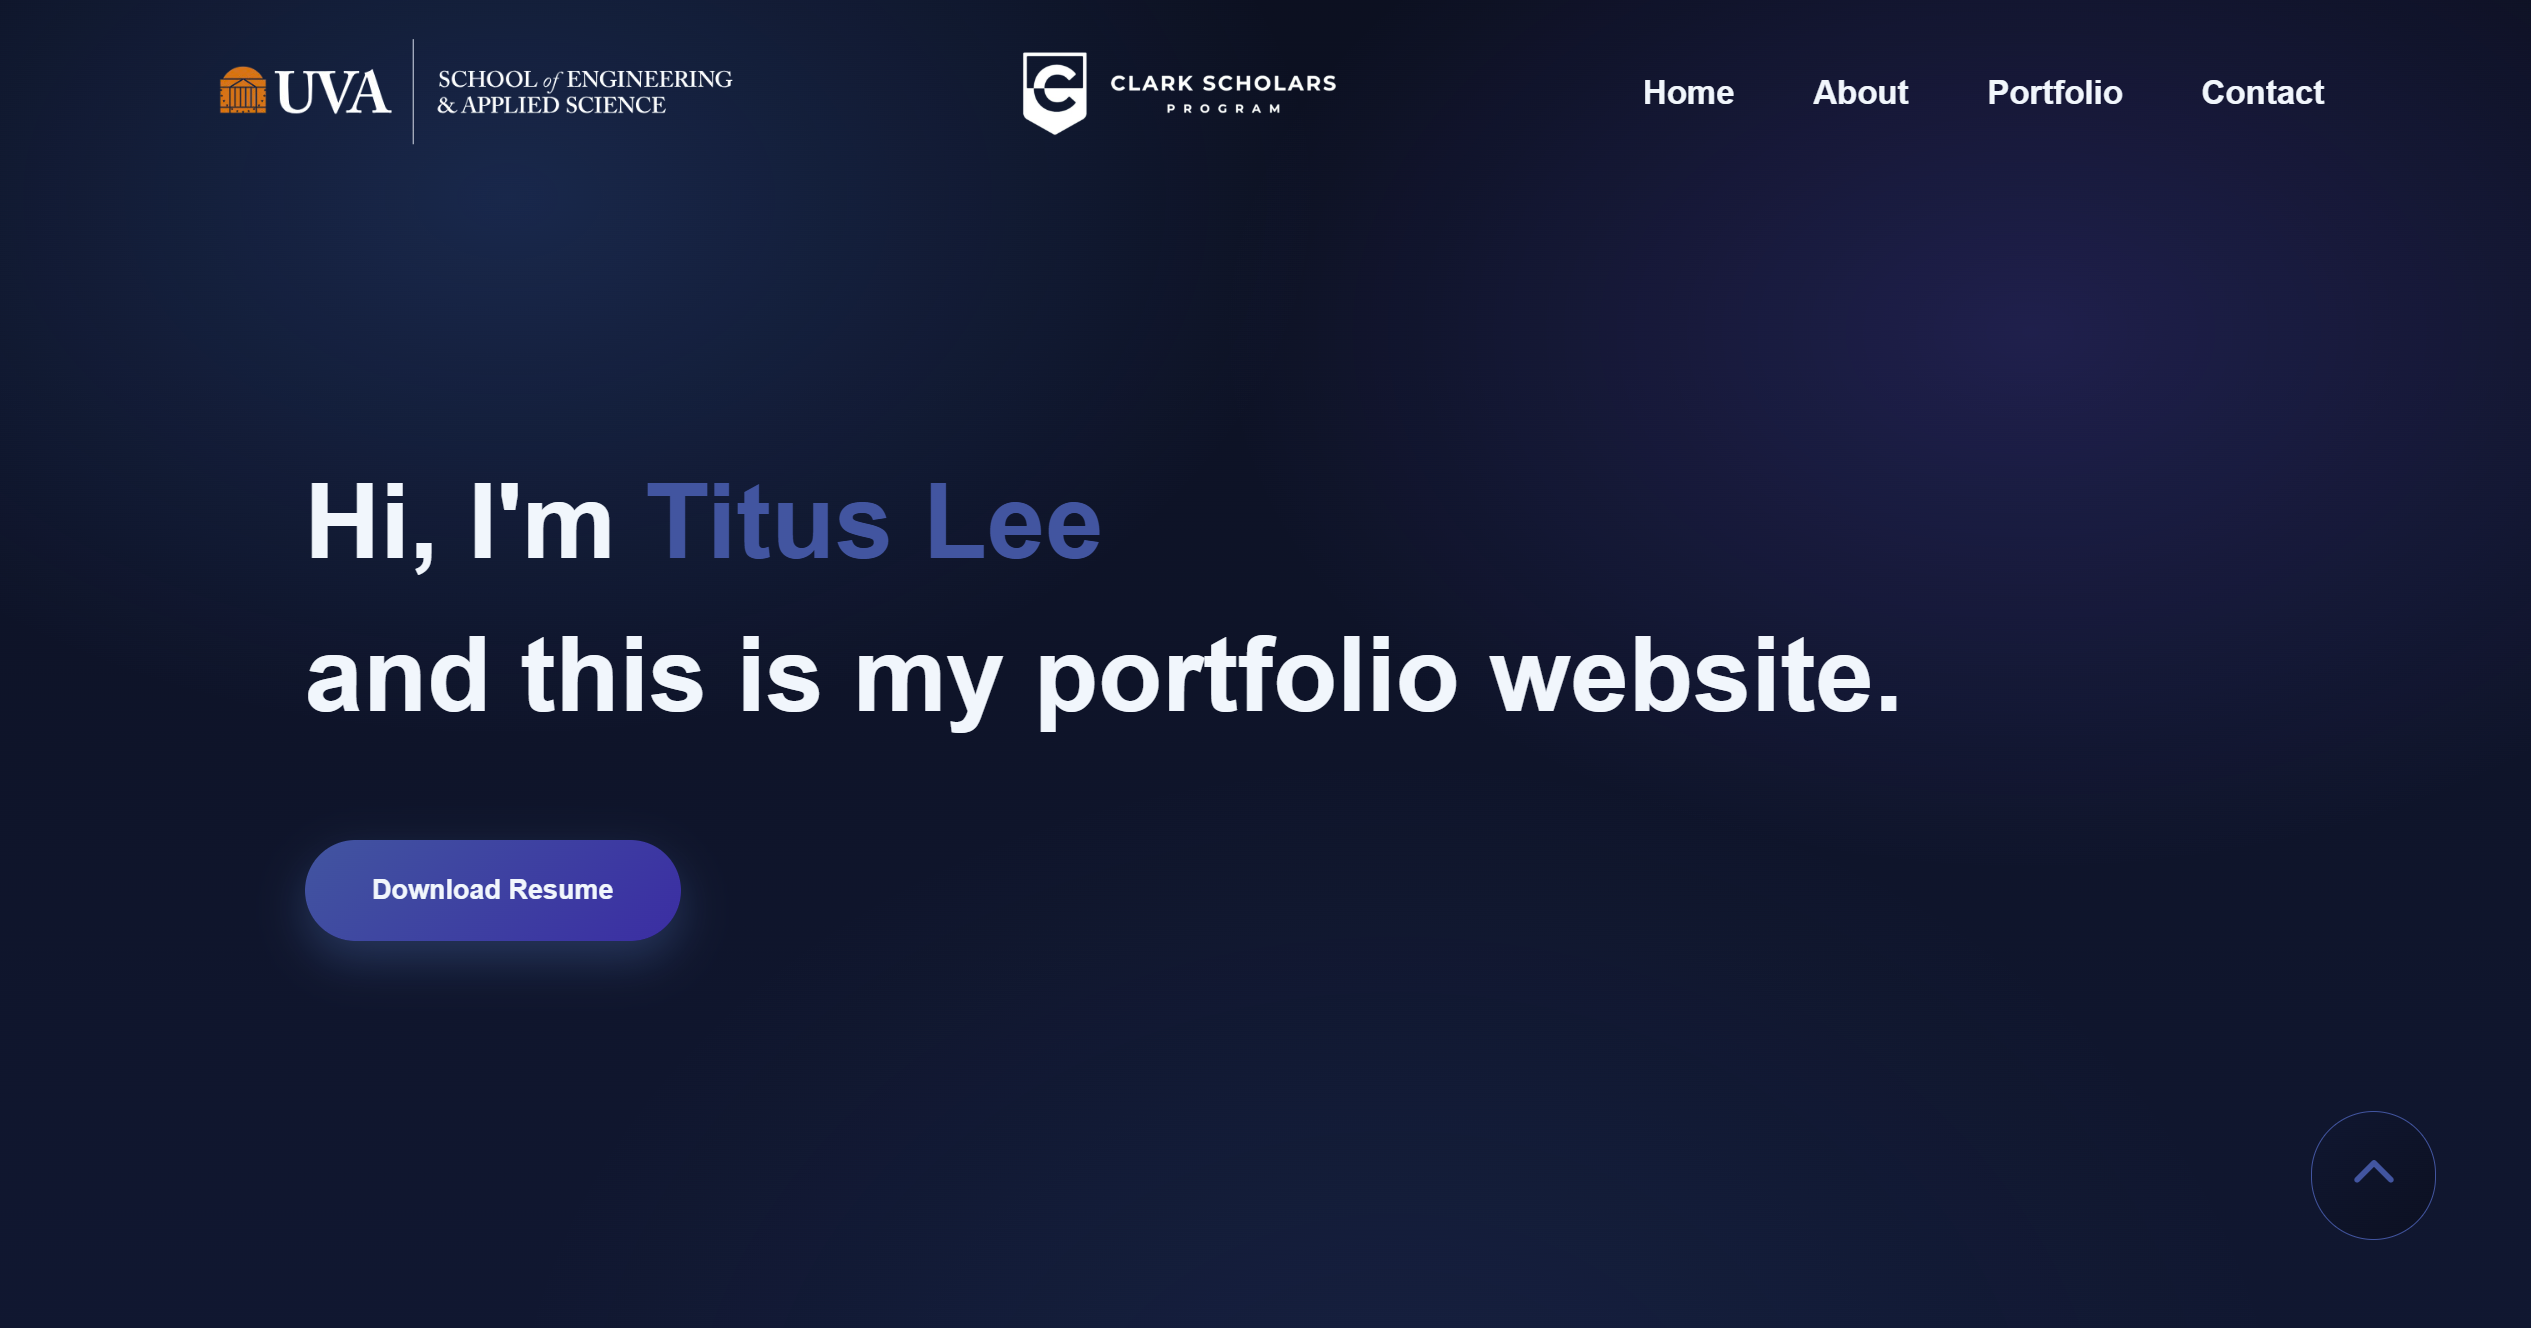
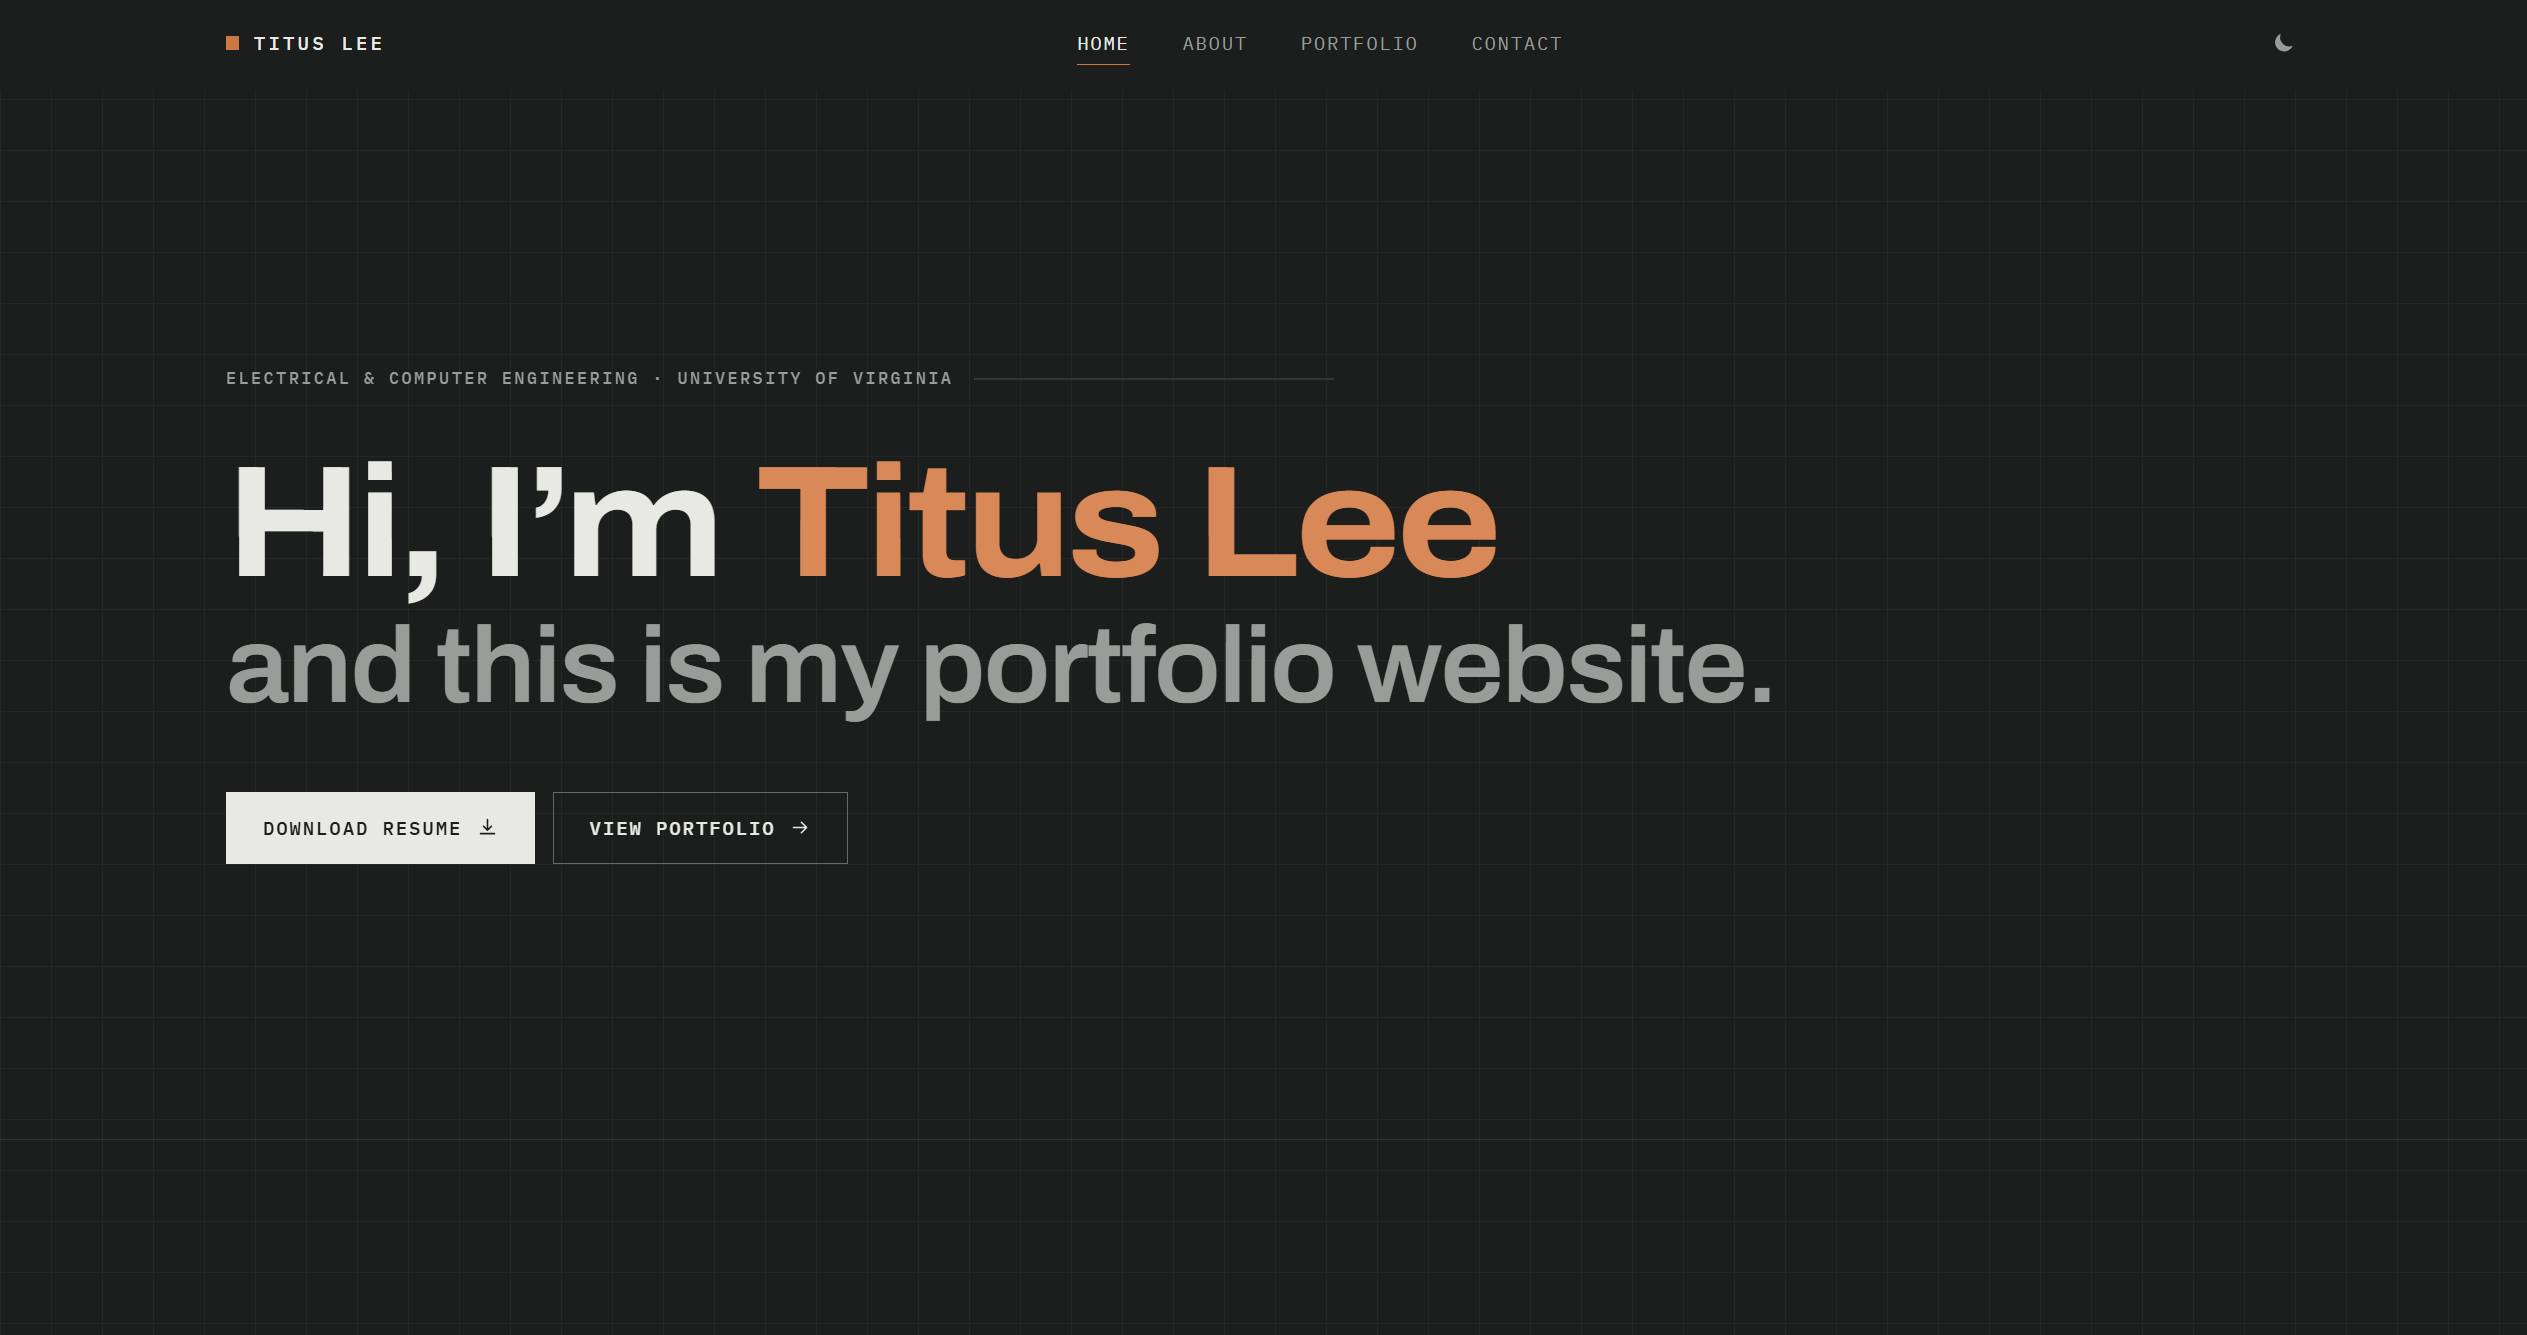
changed thumbnail

diff --git a/index.html b/index.html
@@ -11,7 +11,7 @@
 <meta property="og:url" content="https://tituslee.com/">
 <meta property="og:title" content="Titus Lee - Portfolio Website">
 <meta property="og:description" content="Portfolio website of Titus Lee, an Electrical and Computer Engineering student at the University of Virginia.">
-<meta property="og:image" content="https://tituslee.com/images/vlsischematic.png">
+<meta property="og:image" content="https://tituslee.com/images/website%20portfolio.png">
 <meta name="twitter:card" content="summary_large_image">
 
 <link rel="icon" type="image/png" href="images/favicon.png">
